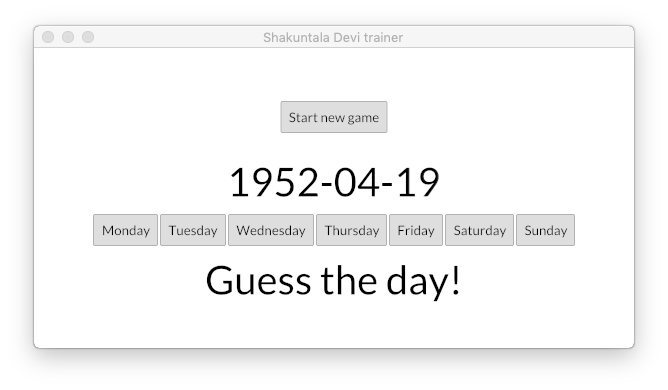
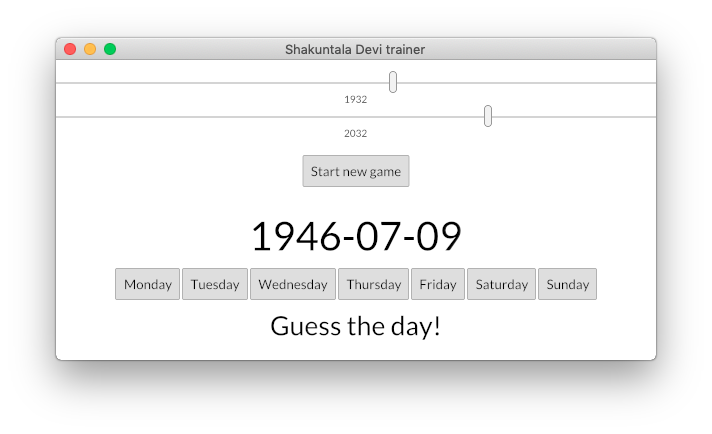
Add handy sliders to adjust random date range

Changed region(s): [[0.0299, 0.0615, 0.9581, 0.9231]]

diff --git a/shakuntala-devi-trainer.html b/shakuntala-devi-trainer.html
@@ -1,0 +1,15 @@
+<!DOCTYPE html>
+<html>
+  <head>
+    <meta http-equiv="Content-type" content="text/html; charset=utf-8"/>
+    <meta name="viewport" content="width=device-width, initial-scale=1">
+    <title>Shakuntala Devi's trainer</title>
+  </head>
+  <body>
+    <script type="module">
+      import init from "./shakuntala-devi-trainer/shakuntala-devi-trainer.js";
+
+      init('./shakuntala-devi-trainer/shakuntala-devi-trainer_bg.wasm');
+    </script>
+  </body>
+</html>

diff --git a/src/gui.rs b/src/gui.rs
@@ -1,10 +1,9 @@
 use std::collections::VecDeque;
 
 use chrono::prelude::*;
-use chrono::NaiveDate;
 use iced::{
-    button, Align, Button, Column, Container, Element, HorizontalAlignment, Length, Row, Sandbox,
-    Settings, Text,
+    button, slider, Align, Button, Column, Container, Element, HorizontalAlignment, Length, Row,
+    Sandbox, Settings, Slider, Text,
 };
 use num_traits::cast::FromPrimitive;
 
@@ -17,6 +16,10 @@ pub fn run_gui() {
 //Weekday does not implement Default so we can(t derive Default)
 #[derive(Debug)]
 struct ShakuntalaDeviTrainer {
+    first_year_slider: slider::State,
+    first_year: u32,
+    last_year_slider: slider::State,
+    last_year: u32,
     reset: button::State,
     monday: button::State,
     tuesday: button::State,
@@ -36,21 +39,24 @@ struct ShakuntalaDeviTrainer {
 enum Message {
     GuessDay(Weekday),
     Reset,
-}
-
-fn generate_random_value() -> (NaiveDate, Weekday, VecDeque<String>) {
-    let random_date = shakuntala_devi_trainer::random_date();
-    //let random_date = NaiveDate::from_ymd(1940, 1, 23);
-    let (shakuntala_devi_answer, tips) = shakuntala_devi_trainer::shakuntala_devi(random_date);
-    (random_date, shakuntala_devi_answer, tips)
+    FirstYear(u32),
+    LastYear(u32),
 }
 
 impl Sandbox for ShakuntalaDeviTrainer {
     type Message = Message;
 
     fn new() -> Self {
-        let (random_date, shakuntala_devi_answer, tips) = generate_random_value();
+        let (random_date, shakuntala_devi_answer, tips) =
+            shakuntala_devi_trainer::random_date_with_tips(
+                shakuntala_devi_trainer::DEFAULT_FIRST_YEAR,
+                shakuntala_devi_trainer::DEFAULT_LAST_YEAR,
+            );
         Self {
+            first_year_slider: slider::State::new(),
+            first_year: shakuntala_devi_trainer::DEFAULT_FIRST_YEAR,
+            last_year_slider: slider::State::new(),
+            last_year: shakuntala_devi_trainer::DEFAULT_LAST_YEAR,
             reset: button::State::new(),
             monday: button::State::new(),
             tuesday: button::State::new(),
@@ -62,7 +68,7 @@ impl Sandbox for ShakuntalaDeviTrainer {
             random_date: random_date.to_string(),
             week_day: shakuntala_devi_answer,
             already_pressed: Vec::new(),
-            tips: tips,
+            tips,
             hint: "Guess the day!".to_string(),
         }
     }
@@ -89,19 +95,32 @@ impl Sandbox for ShakuntalaDeviTrainer {
                 } else {
                     match self.tips.pop_front() {
                         Some(tips) => format!("tips: {:#?}", tips),
-                        None => format!("Sorry, no more tips"),
+                        None => "Sorry, no more tips".to_string(),
                     }
                 };
                 self.hint = result;
             }
 
             Message::Reset => {
-                let (random_date, shakuntala_devi_answer, tips) = generate_random_value();
+                let (random_date, shakuntala_devi_answer, tips) =
+                    shakuntala_devi_trainer::random_date_with_tips(self.first_year, self.last_year);
                 self.week_day = shakuntala_devi_answer;
                 self.random_date = random_date.to_string();
                 self.tips = tips;
                 self.hint = "Guess the day!".to_string();
                 self.already_pressed = Vec::new();
+            }
+
+            Message::FirstYear(first_year) => {
+                if first_year < self.last_year {
+                    self.first_year = first_year;
+                }
+            }
+
+            Message::LastYear(last_year) => {
+                if last_year > self.first_year {
+                    self.last_year = last_year;
+                }
             }
         }
     }
@@ -151,6 +170,32 @@ impl Sandbox for ShakuntalaDeviTrainer {
             .push(Text::new(&self.random_date).size(48))
             .padding(8);
 
+        let first_year = Column::new()
+            .push(Text::new(&self.first_year.to_string()).size(12))
+            .padding(0);
+
+        let last_year = Column::new()
+            .push(Text::new(&self.last_year.to_string()).size(12))
+            .padding(0);
+
+        let first_year_slider = Column::new()
+            .push(Slider::new(
+                &mut self.first_year_slider,
+                shakuntala_devi_trainer::MIN_YEAR..=shakuntala_devi_trainer::MAX_YEAR,
+                self.first_year,
+                Message::FirstYear,
+            ))
+            .padding(0);
+
+        let last_year_slider = Column::new()
+            .push(Slider::new(
+                &mut self.last_year_slider,
+                shakuntala_devi_trainer::MIN_YEAR..=shakuntala_devi_trainer::MAX_YEAR,
+                self.last_year,
+                Message::LastYear,
+            ))
+            .padding(0);
+
         let weekday = Row::new()
             .push(column(
                 &mut self.monday,
@@ -196,6 +241,10 @@ impl Sandbox for ShakuntalaDeviTrainer {
             ));
 
         let content = Column::new()
+            .push(first_year_slider)
+            .push(first_year)
+            .push(last_year_slider)
+            .push(last_year)
             .push(reset_button)
             .push(random_date)
             .push(weekday)

diff --git a/src/lib.rs b/src/lib.rs
@@ -4,7 +4,15 @@ use chrono::prelude::*;
 use chrono::Duration;
 use num_traits::cast::FromPrimitive;
 use rand::Rng;
-use std::collections::{HashMap, VecDeque};
+use std::{
+    collections::{HashMap, VecDeque},
+    convert::TryInto,
+};
+
+pub const MIN_YEAR: u32 = 1583;
+pub const MAX_YEAR: u32 = 2204;
+pub const DEFAULT_FIRST_YEAR: u32 = 1932;
+pub const DEFAULT_LAST_YEAR: u32 = 2032;
 
 lazy_static! {
     static ref YEARS: HashMap<i32, i32> = {
@@ -126,12 +134,22 @@ pub fn zeller(dt: NaiveDate) -> Weekday {
     .unwrap()
 }
 
-pub fn random_date() -> NaiveDate {
-    let start = NaiveDate::from_ymd(1583, 1, 1).num_days_from_ce();
-    let end = NaiveDate::from_ymd(2204, 1, 1).num_days_from_ce();
+pub fn random_date(from_year: u32, to_year: u32) -> NaiveDate {
+    let start = NaiveDate::from_ymd(from_year.try_into().unwrap(), 1, 1).num_days_from_ce();
+    let end = NaiveDate::from_ymd(to_year.try_into().unwrap(), 1, 1).num_days_from_ce();
     let days = rand::thread_rng().gen_range(1..end - start);
-    let dt = NaiveDate::from_ymd(1583, 1, 7);
+    let dt = NaiveDate::from_ymd(from_year.try_into().unwrap(), 1, 7);
     dt + Duration::days(days as i64)
+}
+
+pub fn random_date_with_tips(
+    from_year: u32,
+    to_year: u32,
+) -> (NaiveDate, Weekday, VecDeque<String>) {
+    let random_date = random_date(from_year, to_year);
+    //let random_date = NaiveDate::from_ymd(1940, 1, 23);
+    let (shakuntala_devi_answer, tips) = shakuntala_devi(random_date);
+    (random_date, shakuntala_devi_answer, tips)
 }
 
 #[test]

diff --git a/src/cli.rs b/src/cli.rs
@@ -17,9 +17,11 @@ pub fn parse_cli() -> bool {
 }
 
 pub fn run_cli() {
-    let random_date = shakuntala_devi_trainer::random_date();
-    //let random_date = NaiveDate::from_ymd(1940, 1, 23);
-    let (shakuntala_devi_answer, tips) = shakuntala_devi_trainer::shakuntala_devi(random_date);
+    let (random_date, shakuntala_devi_answer, tips) =
+        shakuntala_devi_trainer::random_date_with_tips(
+            shakuntala_devi_trainer::DEFAULT_FIRST_YEAR,
+            shakuntala_devi_trainer::DEFAULT_LAST_YEAR,
+        );
     let mut tips = tips.iter();
     if shakuntala_devi_answer != random_date.weekday() {
         println!("Shakuntala Devi cannot found the day of {:#?}", random_date);

diff --git a/README.md b/README.md
@@ -40,7 +40,9 @@ If you use the console version your answer should be encoded as an integer like 
 * Saturday 6
 
 If your answer is wrong only the text console version will give you a hint for now.  
-Each hint is the result of a step of Shakuntala Devi's algorithm
+Each hint is the result of a step of Shakuntala Devi's algorithm.
+
+You can adjust the range of the random date with two handy sliders.
 
 ### Web version ###
 You can try the experimental online version [shakuntala-devi-trainer][2]
